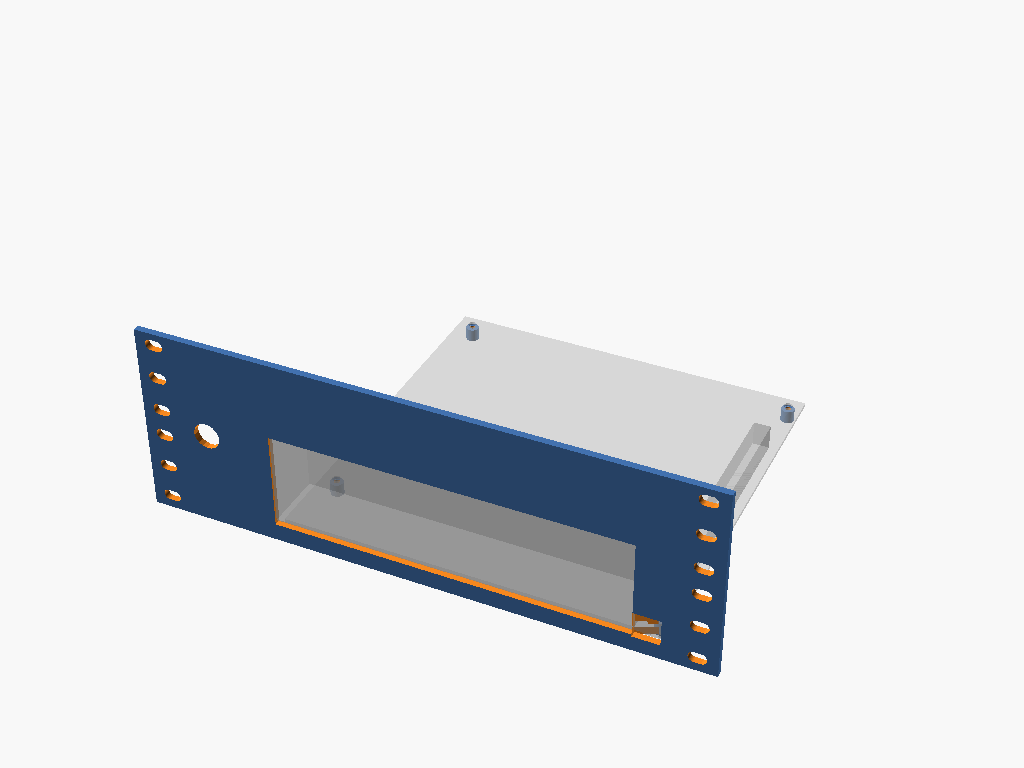
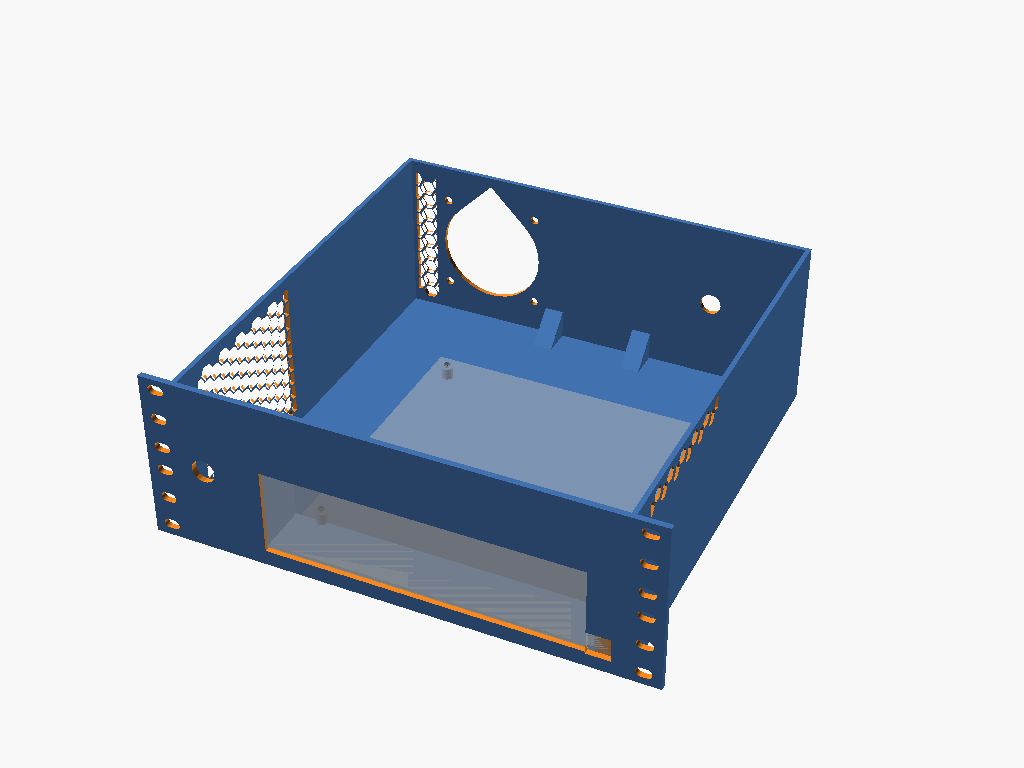
docs(mitx-2u): README + render + top-README sync (#43)
Bring README.md/PRINTING.md up to date with Tasks 2-3's walls/floor,
rear DC-in/fan/#40 tongue, PCIe floor mount hole, and honeycomb vents
(previously only reflected Task 1's bare faceplate/board scope);
regenerate the render; add the top-level README Projects bullet.

Changed region(s): [[0.125, 0.1875, 0.8125, 0.9062]]

diff --git a/projects/mitx-2u-chassis/README.md b/projects/mitx-2u-chassis/README.md
@@ -6,23 +6,25 @@ appliance" style like its 1U sibling
 faces the rack **front** (ports + a power button front-accessible), PLUS a
 single **low-profile PCIe card aperture + bracket mount** in the front
 faceplate (the extra U of height over the 1U sibling is spent on headroom
-for a heatsink and a card standing up off the board). Rear `#40`
-`rack-support` tongue mate on the rack rear. Consumes `motherboards` (board
-+ PCIe-slot data), `rack10` (rack geometry), `rack-support` (rear mate,
-engagement-depth budget only so far), `pcie-bracket` (card bracket
-size/keep-out; mount-hole geometry not yet consumed — see Status),
-`fans`/`honeycomb` (not yet consumed — Tasks 2-3). Units: **mm**.
+for a heatsink and a card standing up off the board). Floor + side walls +
+rear wall, a rear `#40` `rack-support` tongue mate, a rear exhaust fan
+drawing air in through honeycomb intake vents on both side walls, and a
+rear DC-in barrel jack. Consumes `motherboards` (board + PCIe-slot data),
+`rack10` (rack geometry), `rack-support` (rear tongue mate),
+`pcie-bracket` (card bracket size/keep-out + floor mount-hole geometry),
+`fans` (fan bore + mount holes), `honeycomb` (self-supporting vent fields).
+Units: **mm**.
 
 ![mitx-2u-chassis render](renders/mitx-2u-chassis.png)
 
 ## Status
 
-**Task 1 of 4 (#43) — scaffold.** This task adds: params + fit-asserts, the
-off-center board (standoffs + placeholder), and the front faceplate (rack
-ears, IO-shield cutout, power button hole, PCIe slot aperture, PCIe bracket
-keep-out preview). **Not yet built:** walls, floor, rear panel, the
-`rack-support` tongue mate, the PCIe bracket's floor mount hole, and the
-fan/honeycomb vent — Tasks 2-3.
+**Complete (#43).** A full open-top tray: front faceplate (rack ears, IO
+cutout, power button, PCIe slot aperture), off-center board on standoffs,
+floor + side walls + rear wall, tongue-flanking corner gussets, the `#40`
+rack-support tongue with its own buttress, a rear DC-in barrel jack +
+teardropped exhaust fan bore, the PCIe bracket's floor mount hole, and
+honeycomb intake/exhaust vents. All geometry verified support-free.
 
 ## Design
 
@@ -46,34 +48,100 @@ fan/honeycomb vent — Tasks 2-3.
   rear/IO edge); the faceplate sits at -Y from that same plane (rack10's
   front-of-panel convention), so both stamps are `mirror([0,1,0])`-flipped
   before being placed in the shared board frame — otherwise the cutters
-  grow away from the faceplate and never reach it (same bug mitx-1u-chassis
-  hit on the IO stamp alone).
-- **PCIe bracket mount hole is NOT cut here.** `pcie_bracket_mount_holes()`
-  bores a Z-axis hole through the bracket's *foot* (flat in the XY plane,
-  per `pcie-bracket.scad`'s own header) — a floor/rail fastener, not a
-  Y-extruding faceplate through-cut like the two stamps above. Wrapping it
-  in the same faceplate mirror is a silent no-op (proven empirically via
-  `intersection()` against the faceplate slab: empty result). Task 2 cuts
-  the real hole into the floor, where the bracket's foot actually lands.
-  The `%pcie_bracket("low-profile")` keep-out preview is still rendered
-  here (centered on the slot's own world X via `_pcie_slot_cx()`, since
-  `pcie_bracket()`'s local X=0 is its own card-slot centerline, not the
-  board's corner-frame origin) so the alignment is visible ahead of Task 2.
+  grow away from the faceplate and never reach it.
+- **PCIe bracket is the card's own part, not printed here.** This chassis
+  provides the **aperture** (a single-slot `mobo_pcie_cutout()` in the
+  faceplate) and the **floor mount hole** for the bracket's foot
+  (`pcie_bracket_mount_holes()`, a Z-axis cut through the floor at
+  `_pcie_slot_cx()`); the bracket itself (`pcie_bracket("low-profile")`)
+  is the inserted card's own hardware, shown here only as a `%`-preview.
+  The mount hole is cut at world Z mapped so the bracket's local Z=0 (its
+  foot's own top face) lands on the floor slab's own top surface — cutting
+  `floor_th+standoff_h` (the Task-1 keep-out preview's translate) instead
+  would leave the hole floating above the floor and cut nothing; this was
+  confirmed empirically via an `intersection()` probe against the floor
+  slab in `tests/test_mitx_2u_chassis.sh`.
+- **PCIe bracket mount hole vs. the faceplate.** `pcie_bracket_mount_holes()`
+  bores straight down through the bracket's foot (flat in the XY plane,
+  per `pcie-bracket.scad`'s own header) — not a Y-extruding faceplate
+  through-cut like the IO/PCIe-slot stamps — so it is never wrapped in the
+  faceplate's own mirror block; wrapping it there is a silent no-op
+  (verified empirically: `intersection()` against the faceplate slab is
+  empty at every `board_offset`).
 - **Off-panel + off-board guards.** Because `board_offset` moves the IO
   window, PCIe slot, and button hole together, fit-asserts check: the IO
   cutout's right edge, the PCIe slot's right edge, and both edges of the
-  button hole all stay within `+-rack10_panel_width/2`; and the board
+  button hole all stay within `+-rack10_panel_width/2`; the board
   footprint itself stays clear of the side walls' interior faces (ported
-  from mitx-1u-chassis's #42 final-review finding) — see
-  `tests/test_mitx_2u_chassis.sh`'s negative controls.
-- **2U headroom budget.** Two independent ceiling asserts share the same
-  `_int_h()` budget: `heatsink_ceiling` (a heatsink standing off the board)
-  and `lp_card_h`/`lp_card_len` (the inserted low-profile card's own
-  keep-out envelope, extending from the slot rearward) — either one alone
-  must fit under the 2U interior ceiling above the standoff+board stack.
-- **Support-free.** The faceplate's ear holes, IO cutout, PCIe slot, and
-  button hole are all straight-through cuts along the panel's short
-  (thickness) axis — no overhangs. See [PRINTING.md](PRINTING.md).
+  from mitx-1u-chassis's #42 final-review finding); and the PCIe floor
+  mount hole stays within the floor slab's own interior span (stricter
+  than the panel-width bound, since the panel's ears extend past the
+  floor's own footprint) — see `tests/test_mitx_2u_chassis.sh`'s negative
+  controls.
+- **2U headroom budget.** Two independent ceiling fit-asserts share the
+  same `_int_h()` budget above the standoff+board stack:
+  `heatsink_ceiling` (a heatsink standing off the board, default 55mm —
+  more than double the 1U sibling's 25mm, since 2U's extra rack unit is
+  spent mostly here) and `lp_card_h`/`lp_card_len` (the inserted
+  low-profile card's own keep-out envelope, extending up off the board and
+  rearward from the slot). `lp_card_h`/`lp_card_len` (defaults 64.4mm /
+  168mm) are explicit **design placeholders, `//VERIFY`** — no board- or
+  bracket-sourced figure for either exists (`pcie-bracket.scad`'s own
+  header explicitly carries no card-length/card-envelope data), so these
+  are this project's own reasoned keep-out numbers, not `[B]`/`[C]`-tiered
+  measurements; tune them to your actual card before printing if it
+  differs. A further fit-assert keeps the LP card's length clear of the
+  rear gusset/tongue zone.
+- **Shell + rear tongue.** Floor, two side walls, and a rear wall (outer
+  face flush with the tongue root at `_tongue_y()`) form a plain
+  rectangular open-top tray — no cantilever, support-free by construction.
+  The `#40` `rack_support_tongue()` is placed at `_tongue_y() =
+  rack10_rear_post_y(standard) - rack_support_engagement_depth()` —
+  `rack_support_tongue()`'s own documented consumer contract, not the more
+  conservative `_usable_depth()` (which additionally reserves
+  `faceplate_th` as a separate board-depth margin; the two intentionally
+  differ). A buttress strip under the tongue's full engagement reach
+  (sized to the tongue's own width, built at
+  `rack_support_floor_thickness()`) supports what would otherwise be an
+  unsupported horizontal overhang.
+- **Tongue-flanking gussets.** `_mitx2_gusset()` braces the rear-wall/floor
+  corner immediately beside the tongue on both sides, using the same
+  hull-of-6-corner-spheres 45° prism `rack-support.scad`'s own gusset uses.
+- **Rear DC-in + exhaust fan, generalized flank offset.** Both cut through
+  the rear wall via `rotate([-90,0,0])` (native Z-bore frame → +Y through
+  the wall). Unlike mitx-1u-chassis's flat `+-clear_width/4` flank offset
+  (which happens to clear its own gusset only at that project's 40mm fan
+  default), this project derives the flank center **from the gusset's own
+  far edge** plus the wider of the fan/DC-in hole radii plus a fixed
+  margin (`_rear_flank_cx()`), so fan/DC-in clear the gusset by
+  construction for any `fan_size`/`dc_dia` — not just the values that
+  happen to work. (The flat-offset idiom was checked first and found to
+  put this project's own 60mm-default fan's near edge *inside* the
+  gusset's far edge — a real overlap caught by a fit-assert, which is why
+  this project generalizes instead of reusing the 1U idiom verbatim.) The
+  fan bore is teardropped (`_mitx2_fan_teardrop()`, 45° roof, apex capped
+  at the rear wall's own available headroom) since a plain round hole this
+  large is well past the safe plain-hole span; the DC-in hole is left
+  plain round since the barrel jack's panel-mount nut needs true
+  roundness.
+- **Honeycomb vents, asymmetric Z-bands.** Intake fields on both side
+  walls (front half, clear of the rear gusset/tongue zone) and an
+  exhaust-flanking field on the rear wall (beside the fan's outboard edge,
+  clear of its mounting screws and the tongue gusset). The **left** wall
+  uses the full ceiling-to-floor band (no nearby hardware); the **right**
+  wall's band starts above the LP card's own keep-out envelope top
+  (`_card_top_z() = floor_th + standoff_h + mobo_thickness() + lp_card_h`)
+  so it can't collide with an inserted card regardless of the card's own
+  (unmodeled) width, with a slightly tighter ceiling margin than the left
+  wall to buy back some of the headroom that constraint costs. All fields
+  are self-supporting hex-cell cuts via `honeycomb_vent()`, oriented so
+  the bridge-sensitive "height" axis always lands vertical.
+- **Support-free.** Every cut and every added solid (faceplate holes, IO
+  cutout, PCIe slot aperture, button hole, walls, gussets, tongue+buttress,
+  fan teardrop, PCIe floor mount hole, honeycomb vents) is either a
+  straight-through cut along a print-vertical axis or a monotonically-
+  narrowing 45° prism — no unsupported overhangs anywhere. See
+  [PRINTING.md](PRINTING.md).
 
 ## Customizer parameters
 
@@ -82,16 +150,19 @@ fan/honeycomb vent — Tasks 2-3.
 | `standard` | Rack | `"labrax"` | Rack vendor key (`rack10_known_standards()`) |
 | `ear_type` | Rack | `"slot"` | Ear mount hole style passed to `rack10_holes()` |
 | `device_u` | Rack | `2` | Rack unit height |
-| `wall` | Print | `2.4` | Side wall thickness, mm (used by the width fit-assert; walls not yet modeled) |
+| `wall` | Print | `2.4` | Side/rear wall thickness, mm — sizes the width fit-assert, the walls themselves, and the gusset/vent clearances |
 | `floor_th` | Print | `2.0` | Floor thickness eaten out of the 2U height budget |
 | `faceplate_th` | Print | `3.0` | Front rack panel thickness, mm |
 | `standoff_h` | Print | `6.0` | Board standoff height, mm |
-| `heatsink_ceiling` | Print | `55` | Reserved headroom above the board for a heatsink, mm |
+| `heatsink_ceiling` | Print | `55` | Reserved headroom above the board for a heatsink, mm — checked against `_int_h()` by a fit-assert |
 | `button_dia` | Front | `12` | Power button hole diameter, mm |
 | `board_offset` | Front | `20` | Board X-offset off panel centerline, mm — opens the low-X gap the button sits in |
-| `pcie_screw` | Front | `"6-32"` | Bracket mount-screw thread family (`pcie_known_screws()`) — consumed by Task 2's floor mount hole |
-| `lp_card_h`, `lp_card_len` | PCIe keep-out | `64.4`, `168` | Reserved envelope for the inserted low-profile card (height off the board, length rearward from the slot) — design placeholders, `//VERIFY`, no board/bracket-sourced figure exists for either |
-| `dc_dia`, `fan_size`, `cell`, `hc_wall` | Cooling/Power | `11`, `60`, `8.0`, `1.2` | Reserved for Tasks 2-3 (DC-in jack, fan cutout, honeycomb vent) — not yet consumed |
+| `pcie_screw` | Front | `"6-32"` | Bracket mount-screw thread family (`pcie_known_screws()`) — sizes the PCIe floor mount hole |
+| `dc_dia` | Cooling/Power | `11` | Rear DC-in barrel jack hole diameter, mm — plain round cut through the rear wall |
+| `fan_size` | Cooling/Power | `60` | Rear exhaust fan frame size, mm — must be a size `fan_known_sizes()` recognizes; drives the teardropped bore + `fan_holes()` mount pattern |
+| `cell` | Cooling/Power | `8.0` | Honeycomb cell size, mm — shared by all vent fields |
+| `hc_wall` | Cooling/Power | `1.2` | Honeycomb wall thickness, mm — shared by all vent fields |
+| `lp_card_h`, `lp_card_len` | PCIe keep-out | `64.4`, `168` | Reserved envelope for the inserted low-profile card (height off the board, length rearward from the slot) — design placeholders, `//VERIFY`, no board/bracket-sourced figure exists for either; tune to your actual card |
 
 ## Build
 
@@ -105,8 +176,12 @@ See [PRINTING.md](PRINTING.md) for print settings.
 
 Board size/thickness/standoff/IO-cutout/PCIe-slot data come from
 `motherboards`; panel width, ear hole centers, and 2U device height come
-from `rack10`; the rear mate's engagement depth (consumed by
-`_usable_depth()`'s depth fit-assert only, ahead of the tongue itself
-landing in Task 2/3) comes from `rack-support`; the PCIe bracket's own
-size/keep-out envelope comes from `pcie-bracket`. No dimensions are
-copied — this project calls each lib's accessors directly.
+from `rack10`; the rear tongue's placement and engagement depth come from
+`rack-support` (`rack_support_tongue()`, `rack_support_engagement_depth()`,
+`rack_support_rail_size()`, `rack_support_floor_thickness()`); the PCIe
+bracket's own size/keep-out envelope and floor mount-hole geometry come
+from `pcie-bracket`; fan mount spacing/bore sizing comes from `fans`; the
+vent cutter geometry comes from `honeycomb`. No dimensions are copied —
+this project calls each lib's accessors directly. `lp_card_h`/
+`lp_card_len` are the one deliberate exception: this project's own
+`//VERIFY` design placeholders, not sourced from any library.

diff --git a/projects/mitx-2u-chassis/PRINTING.md b/projects/mitx-2u-chassis/PRINTING.md
@@ -10,12 +10,74 @@
 | Infill | 20% gyroid |
 | Print speed | 50 mm/s |
 | Supports | None — support-free by construction (see below) |
-| Orientation | Flat, front face down (panel thickness = build height) |
+| Orientation | Floor-down, open-top up (as modeled — the floor is the bed-facing face, walls/tongue/gussets/faceplate extrude straight up in +Z) |
 
-Notes: this task only builds the front faceplate + board standoffs (walls,
-floor, and the rear `#40` mate follow in Tasks 2-3, with their own
-orientation/support notes then). The faceplate's ear holes, IO-shield
-cutout, PCIe slot aperture, and power button hole are all straight vertical
-prisms through the panel's short (thickness) axis — no overhangs. The board
-standoffs are plain cylindrical posts (pilot bore subtracted) printing
-straight up, also no overhangs.
+Notes: the whole tray (floor + side walls + rear wall + tongue + gussets +
+faceplate) is a single support-free print in this orientation — every
+feature was verified against it individually and as a combined render across
+Tasks 1-3:
+
+- **Faceplate.** The ear holes, IO-shield cutout, PCIe slot aperture, and
+  power button hole are all straight vertical prisms through the panel's
+  short (thickness) axis — no overhangs. The board standoffs are plain
+  cylindrical posts (pilot bore subtracted) printing straight up, also no
+  overhangs.
+- **Floor + walls.** Plain rectangular boxes extruded straight up from the
+  bed — no cantilever, no overhang by construction.
+- **PCIe floor mount hole.** A straight Z-axis bore down through the floor
+  slab (`pcie_bracket_mount_holes()`) — same no-overhang straight-through
+  cut as the faceplate holes, just on the floor instead of the panel.
+- **Rear `#40` tongue + buttress.** The tongue's own body is a flat
+  horizontal reach with no material under it from the shell alone, so a
+  buttress strip (sized to the tongue's own width, at
+  `rack_support_floor_thickness()`, spanning the tongue's full
+  `rack_support_engagement_depth()`) fills underneath it — confirmed by a
+  positive-control probe directly under the tongue's footprint
+  (`tests/test_mitx_2u_chassis.sh`). Without this buttress the tongue would
+  print as an unsupported ~12mm horizontal shelf — same fix mitx-1u-chassis
+  needed for the same reason.
+- **Tongue-flanking gussets.** Support-free 45° corner braces (hull of 6
+  corner spheres — same shape `rack-support.scad`'s own gusset uses):
+  right angle at the rear-wall/floor corner, each leg running `size` mm,
+  print-bed on the floor so every Z-layer's Y-footprint shrinks going up —
+  each layer sits on a wider one below it, no support needed.
+- **Rear fan bore, generalized apex cap.** Teardropped (45° roof replacing
+  the top arc of the circular bore) — a plain round hole this large (55.2mm
+  at the default 60mm fan) on a horizontal axis through a vertical wall is
+  well past the safe plain-hole span. `_mitx2_fan_teardrop()`'s `max_reach`
+  caps the ideal 45° apex (`r*sqrt(2)`) at the rear wall's own available
+  headroom (`_fan_teardrop_avail()`) rather than letting it punch through
+  the wall's own top edge — a fit-assert bounds the resulting flat-top span
+  to the 10mm safe self-bridging ceiling. At this project's own defaults
+  (`device_u=2`, `fan_size=60`) the rear wall is tall enough that the ideal
+  apex fits without the cap actually engaging, but the capping logic stays
+  in place generally since a larger `fan_size` could push the ideal apex
+  past headroom again. Fan mount screw holes stay plain round (well under
+  the bridging-safe threshold).
+- **Rear DC-in hole.** Left plain round (11mm, near the top of the "usually
+  fine, minor droop" band) — a barrel-jack panel-mount nut needs true
+  roundness, so it isn't teardropped.
+- **Rear DC-in / fan flank offset clears the tongue gusset generally.**
+  Unlike a flat fraction-of-clear-width offset (which only happens to clear
+  the gusset at a specific fan size), `_rear_flank_cx()` derives the
+  fan/DC-in X center from the gusset's own outer edge plus the wider of the
+  two hole radii plus a fixed margin — so the fan/DC-in cutouts clear the
+  gusset by construction (and stay within the rear wall's own width) for
+  any `fan_size`/`dc_dia`, not just this project's own 60mm/11mm defaults.
+  Both bounds are fit-asserted.
+- **Honeycomb vents (both side walls + rear, flanking the fan).** Each
+  field is oriented so the hex cell's bridge-sensitive "height" axis lands
+  on the vertical (print) axis — flat-top hex cells whose only bridge (the
+  top edge) is a few mm, well under the reliably-self-supporting bridging
+  ceiling (`libraries/honeycomb/honeycomb.scad`). The right side wall's
+  field sits in a Z-band pinned above the LP-card keep-out envelope
+  (`_card_top_z()`); a fit-assert keeps that band's remaining headroom
+  above the honeycomb cell size so it can't collapse to zero at aggressive
+  `lp_card_h`/`heatsink_ceiling` values. Confirmed per-field via the
+  `HONEYCOMB_WORST_SPAN` check in `tests/test_mitx_2u_chassis.sh` (well
+  under the bridging ceiling on all fields at default `cell`/`hc_wall`).
+
+All of the above was confirmed with `verify-scad-geometry` renders (both
+as-modeled and rotated 180° about Z for a rear-wall-facing view) across
+Tasks 1-3, plus the numeric fit-asserts and hole-void probes in
+`tests/test_mitx_2u_chassis.sh` — no supports anywhere in this orientation.

diff --git a/README.md b/README.md
@@ -51,6 +51,7 @@ use <fans/fans.scad>;
 - [keystone-blank](projects/keystone-blank) — printable caliper-faithful keystone blank insert.
 - [keystone-faceplate](projects/keystone-faceplate) — parametric 1U 10-inch N-port keystone faceplate.
 - [mitx-1u-chassis](projects/mitx-1u-chassis) — 1U 10" rack chassis for a mini-ITX board (front IO, #40 rear mate)
+- [mitx-2u-chassis](projects/mitx-2u-chassis) — 2U 10" rack chassis for a mini-ITX board + low-profile PCIe (front IO, #40 rear mate)
 - [rack10-device-tray](projects/rack10-device-tray) — parametric 1U 10" cradle tray for rigid-box devices (GS308/GS308T/RLA-PS1), #40 rear mate
 - [two-piece-box](projects/two-piece-box) — multipart box with exploded view.
 
